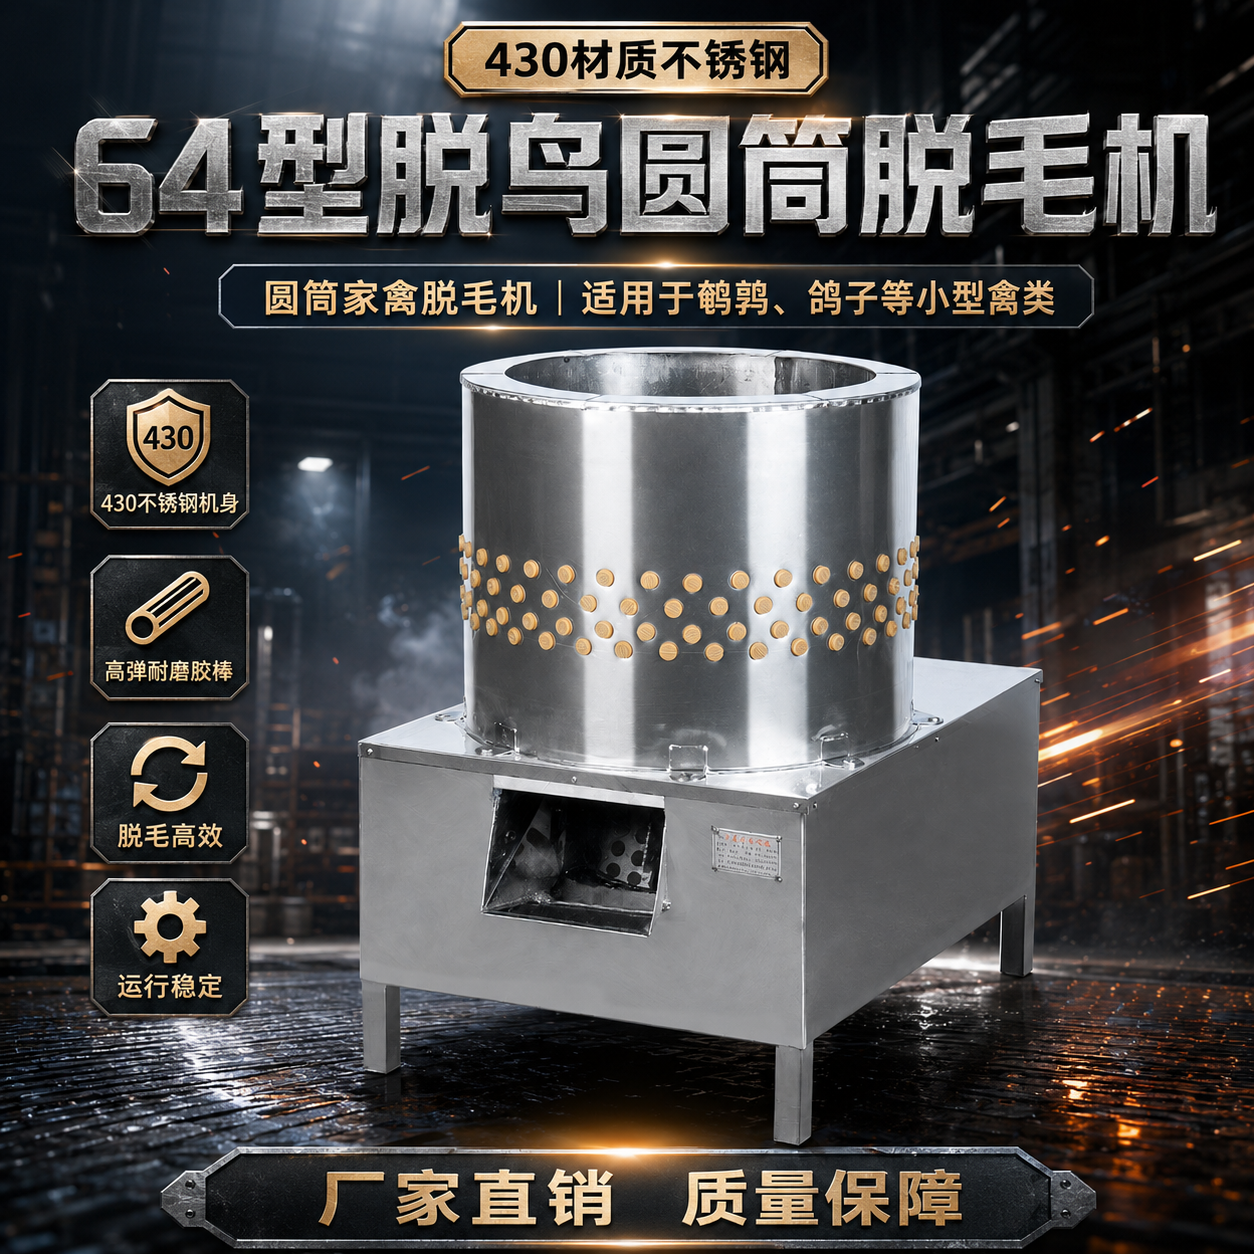
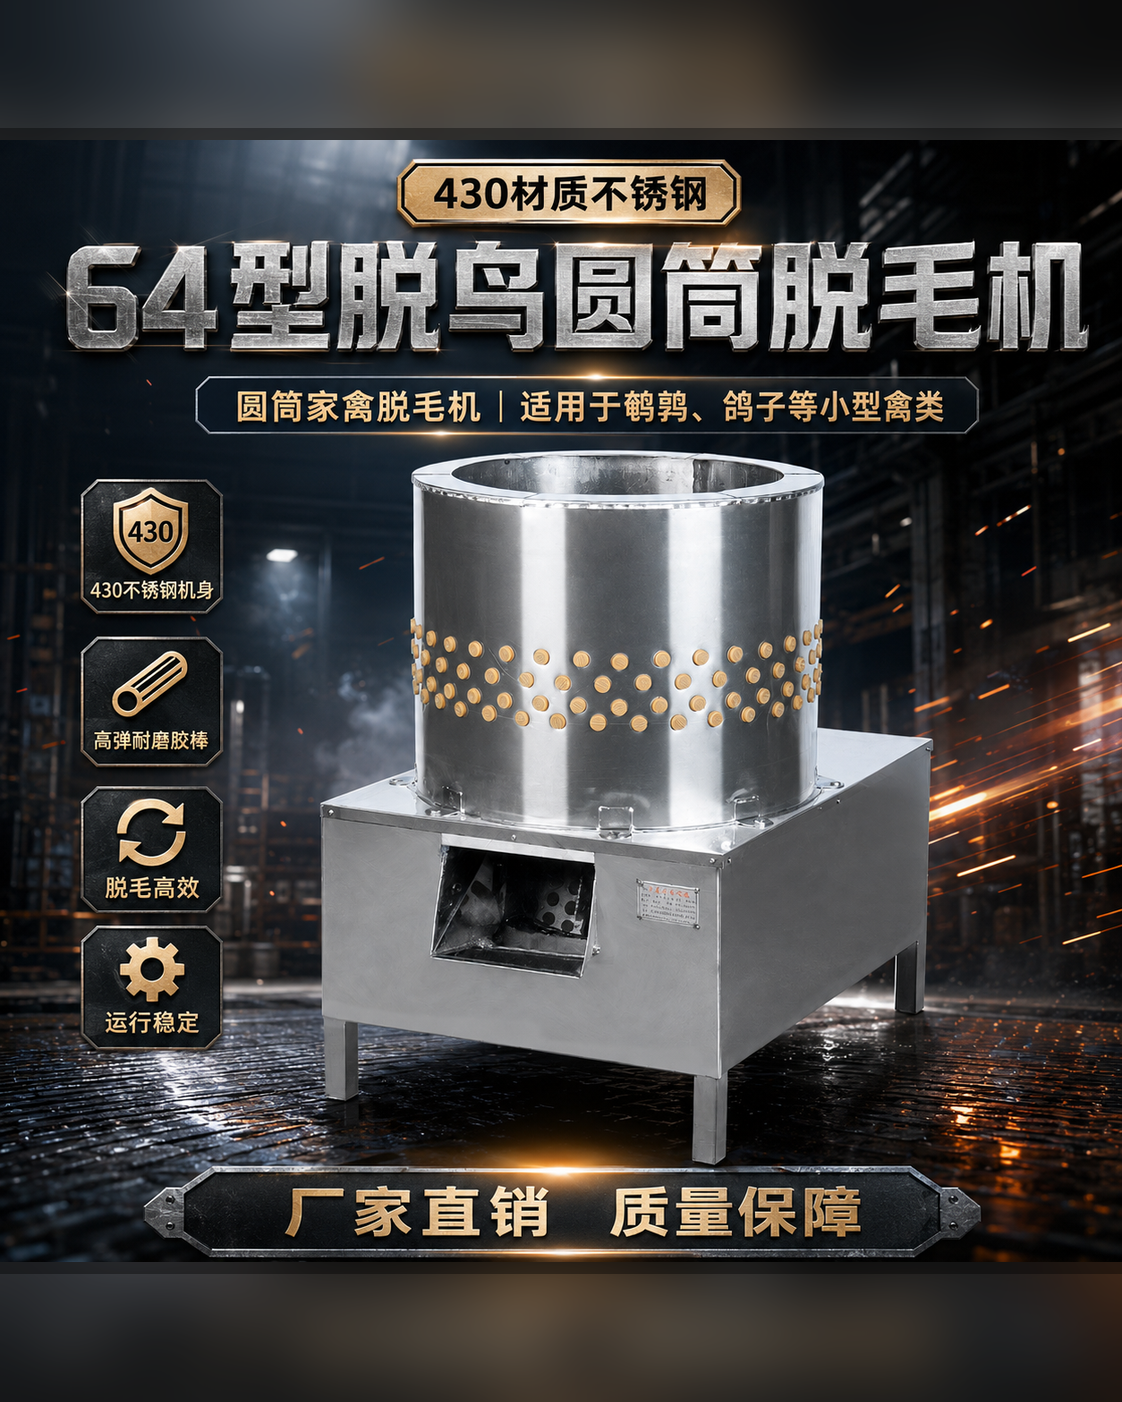
更新产品中心图片资源

diff --git a/MEMORY.md b/MEMORY.md
@@ -123,3 +123,8 @@
 
 - 首页主推产品和产品中心卡片的产品图是采购判断重点，不应放在带内边距的固定小图框里导致左右留空和图片缩小；应使用图片原始比例完整、放大展示。
 - 产品详情页图库桌面端也只显示一张大图，第二张详情图通过横向滑动查看，不再两张并排铺开。
+
+## 2026-06-27 produce 图片尺寸处理规则
+
+- `produce/` 目录图片统一处理为 1122x1402 时，不做拉伸硬改；已是目标尺寸的图片跳过，非目标尺寸图片保留原图比例，用同图模糊延展背景补齐画布，避免变形和生硬空白。
+- `produce/` 中产品图更新后，网站实际展示资源同步到 `public/images/products/new-2026/`，保持产品 Markdown 的英文图片路径不变；这样首页、产品中心、产品详情页会同时更新。
